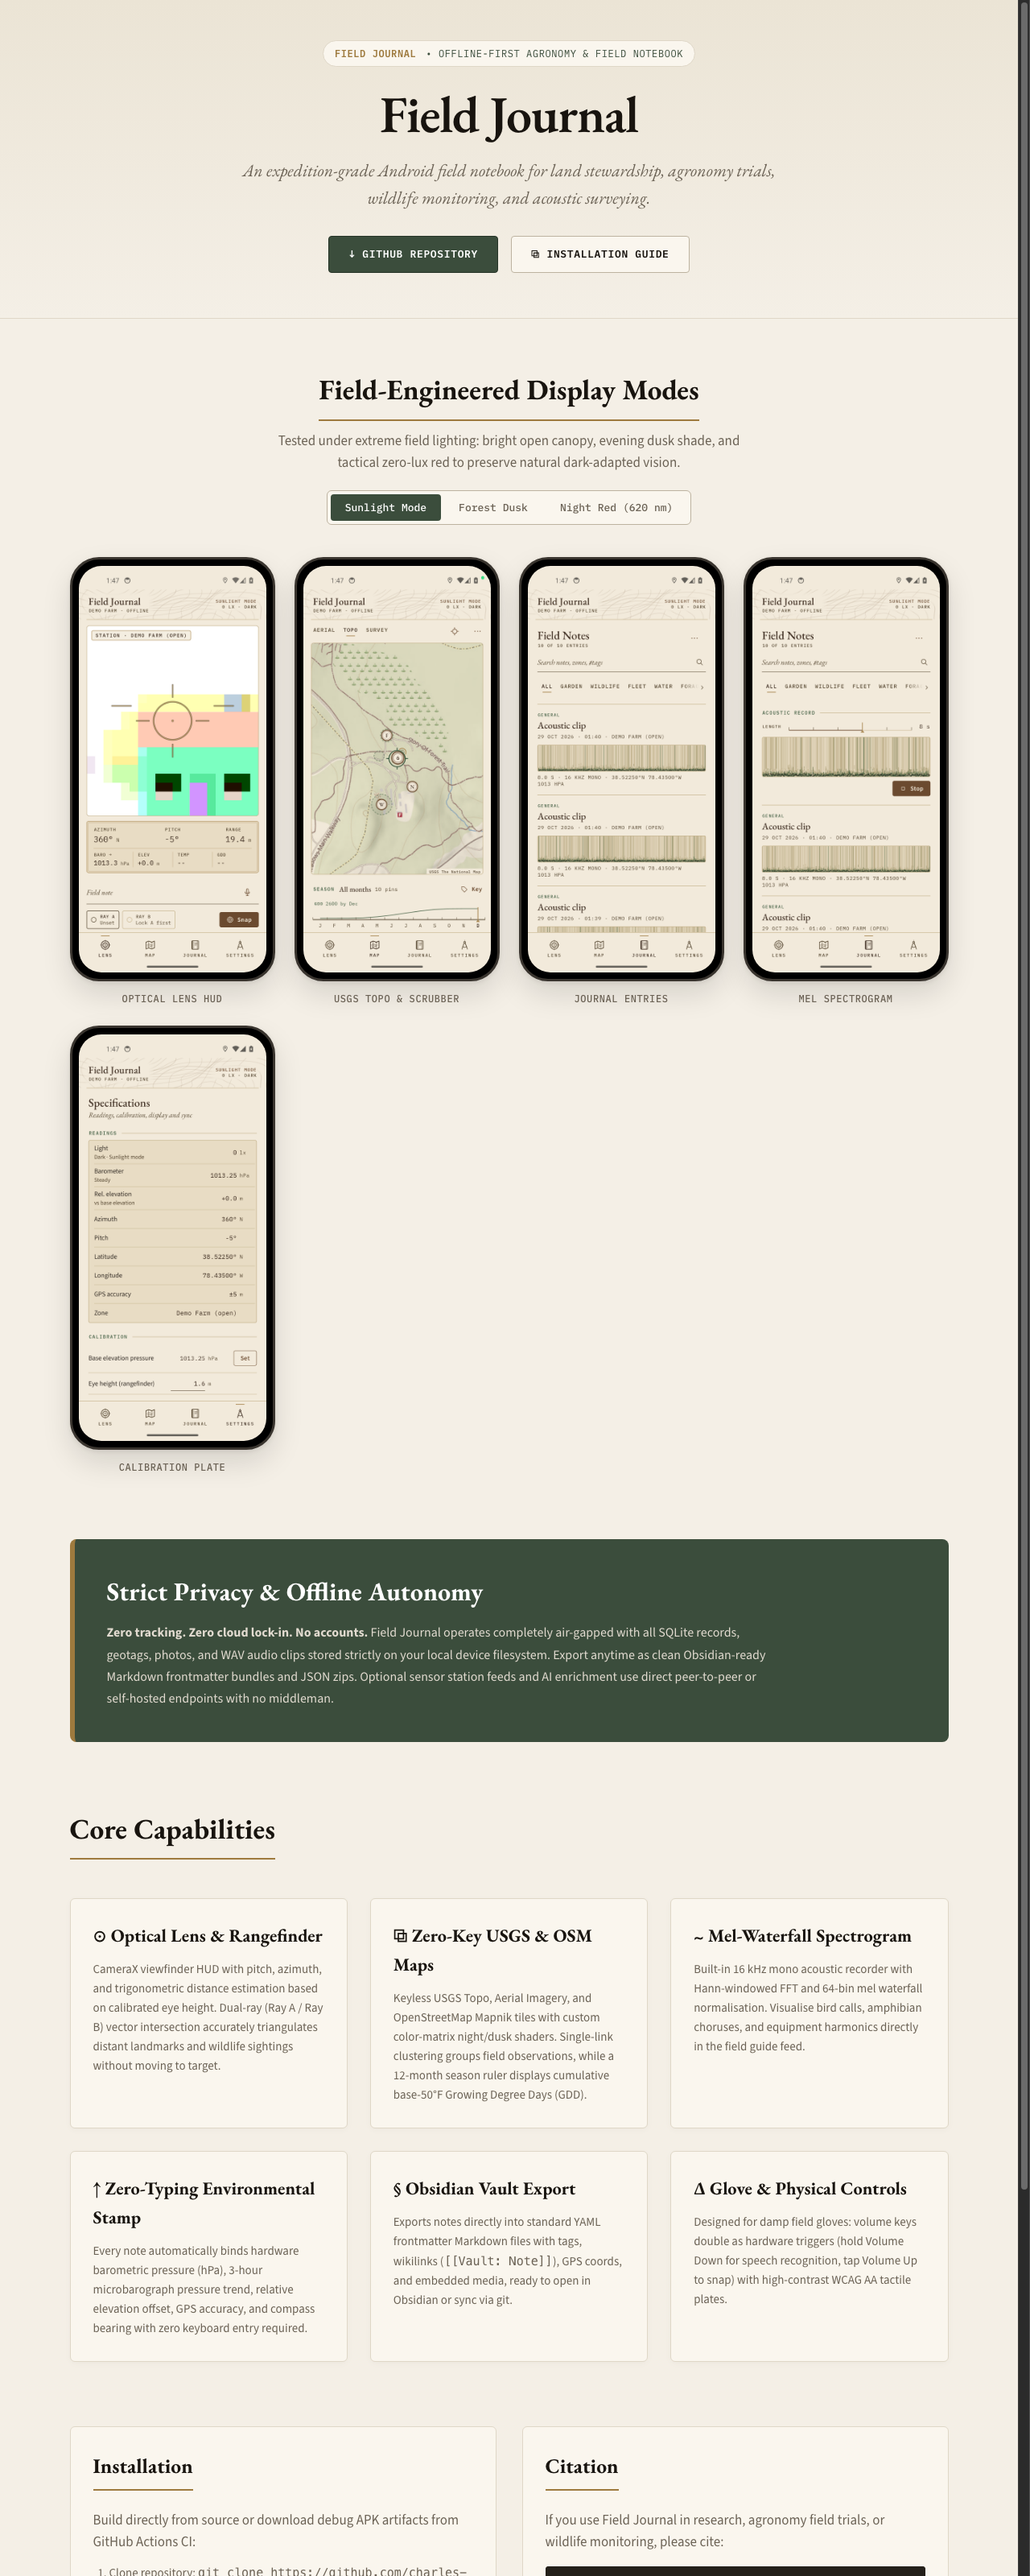
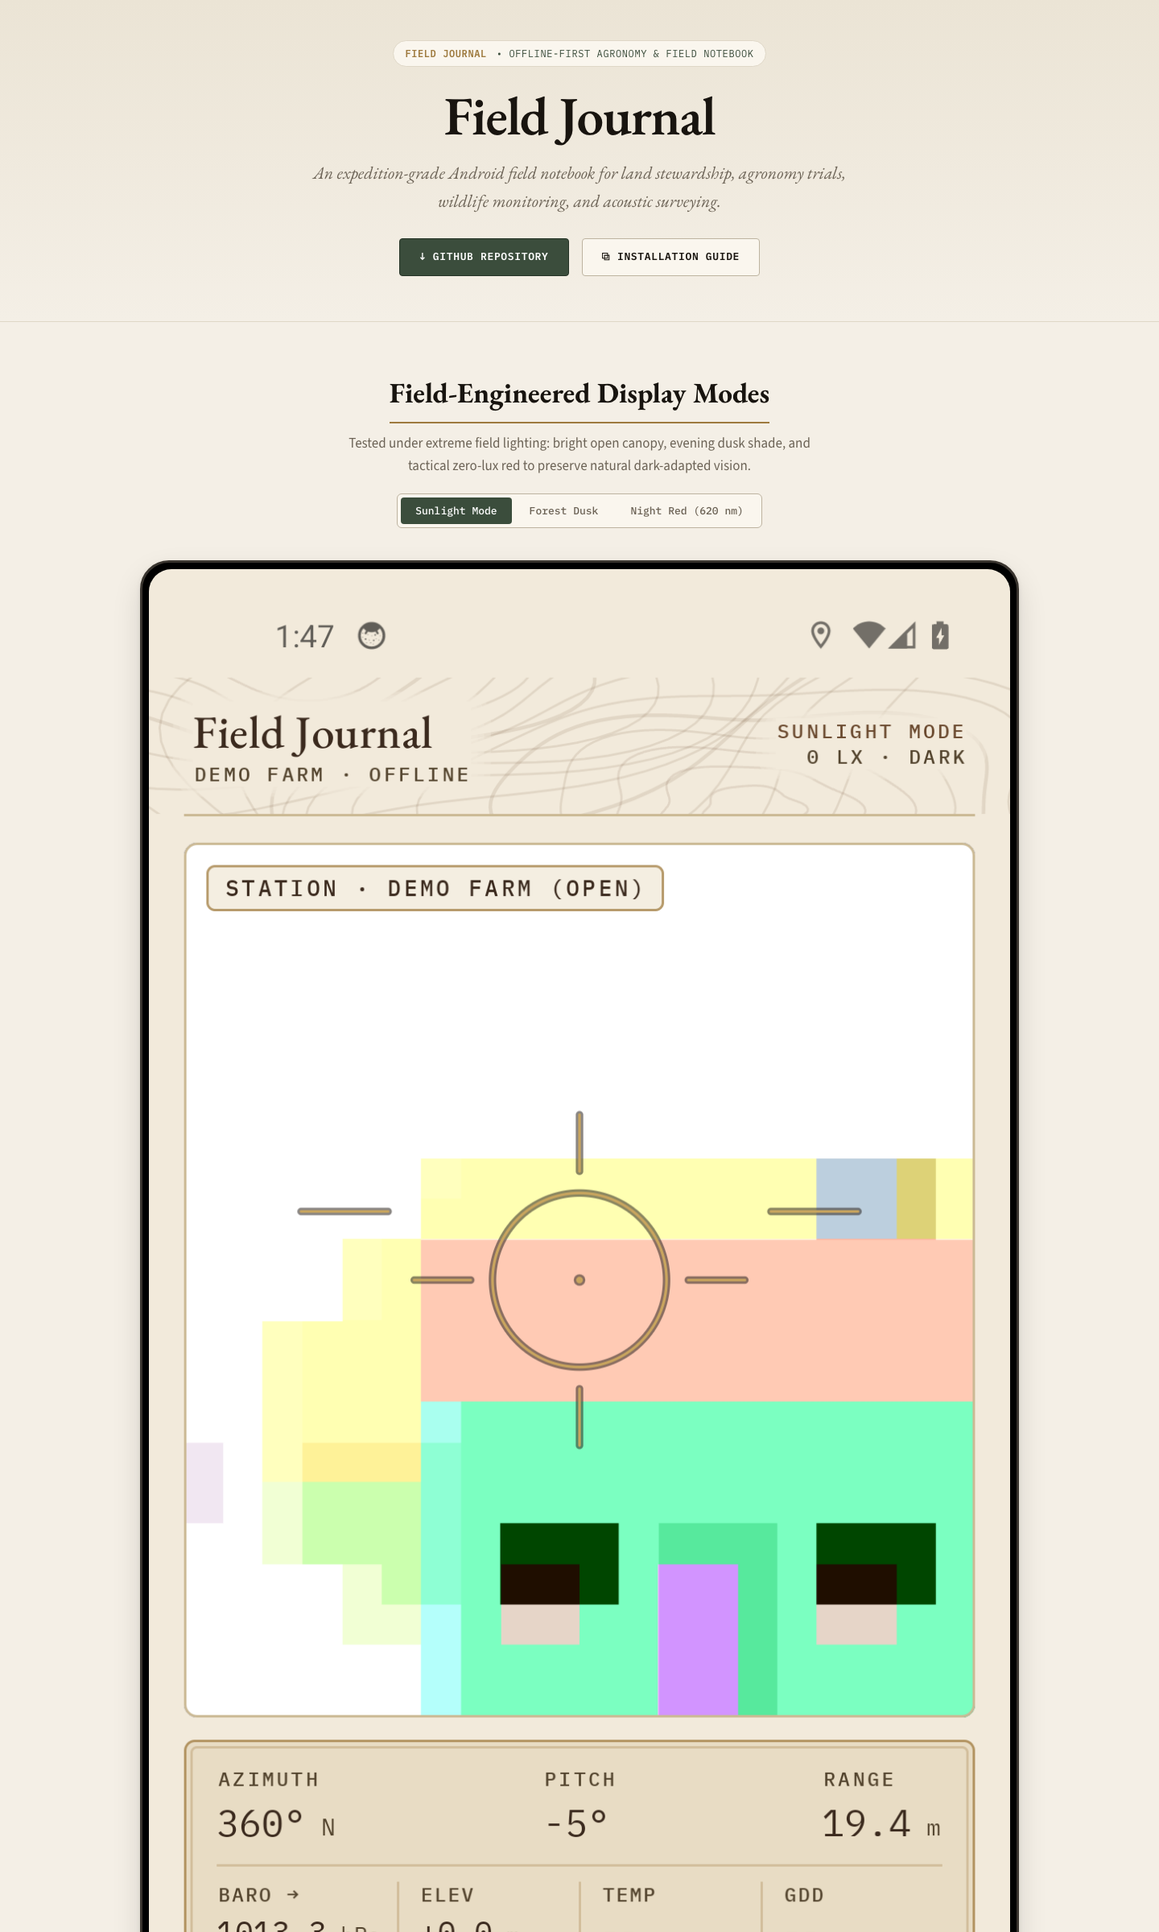
Showcase: center gallery row

diff --git a/docs/index.html b/docs/index.html
@@ -155,12 +155,11 @@
       color: #FFF;
     }
     .gallery-grid {
-      display: grid;
-      grid-template-columns: repeat(auto-fit, minmax(200px, 1fr));
+      display:flex; flex-wrap:wrap; justify-content:center;
       gap: 24px;
       justify-content: center;
     }
-    .phone-mockup {
+    .phone-mockup { flex: 0 1 200px;
       background: #000;
       border-radius: 36px;
       padding: 8px;
